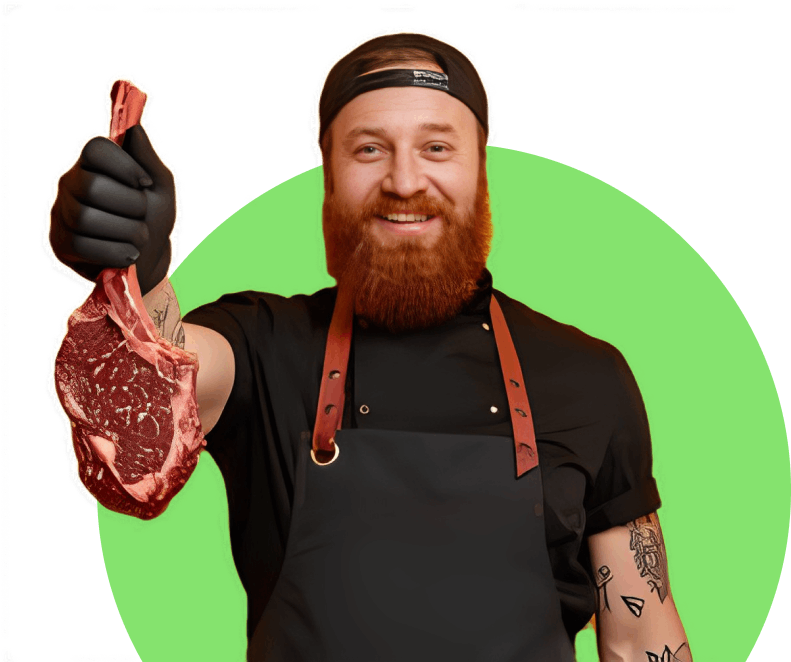
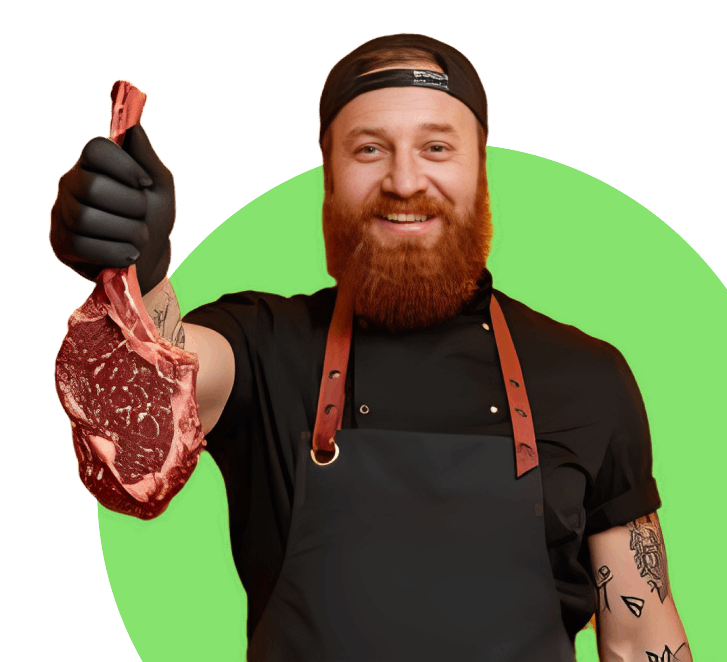
Fix :hero section image fixed

diff --git a/sass/main.scss b/sass/main.scss
@@ -82,9 +82,7 @@ p,h1,h2,h3,h4{
 .login{
     @include btn_style (white,black)
 }
-.img-setting{
-    @include img-setting(37.7)
-}
+
 .nav{
     @include flex-center(row,unset ,12px );
     align-items: center;
@@ -105,7 +103,7 @@ p,h1,h2,h3,h4{
 
 .heroSection {
     display: flex;
-    padding: 72px 0px 0px 0px;
+    padding: 72px 0px 0px 72px;
     background: var(--Accent-50, #EBFAE7); 
 img{
     @include img-setting(728px)
@@ -209,6 +207,7 @@ img{
 
 .articalItem{
     @include flex-center(column,flex-start ,26px );
+    flex: 1;
     img{
         max-width: 80px;
     }

diff --git a/sass/main.css b/sass/main.css
@@ -51,11 +51,6 @@ p, h1, h2, h3, h4 {
   padding: 0rem 1rem 0rem 1rem;
 }
 
-.img-setting {
-  overflow: hidden;
-  max-width: 37.7;
-}
-
 .nav {
   display: flex;
   flex-shrink: 1;
@@ -83,7 +78,7 @@ p, h1, h2, h3, h4 {
 
 .heroSection {
   display: flex;
-  padding: 72px 0px 0px 0px;
+  padding: 72px 0px 0px 72px;
   background: var(--Accent-50, #EBFAE7);
 }
 .heroSection img {
@@ -245,6 +240,7 @@ p, h1, h2, h3, h4 {
   justify-content: flex-start;
   flex-direction: column;
   gap: 26px;
+  flex: 1;
 }
 .articalItem img {
   max-width: 80px;

diff --git a/landing.html b/landing.html
@@ -28,7 +28,7 @@
     </div>
     <!-- hero section started -->
     <section class="Section_1">
-        <div class="container">
+        <div class="container"style="max-width: 1424px;">
             <div class="heroSection">
                 <div class="heroSectionContent">
                     <div class="heroSectionContentLine">
